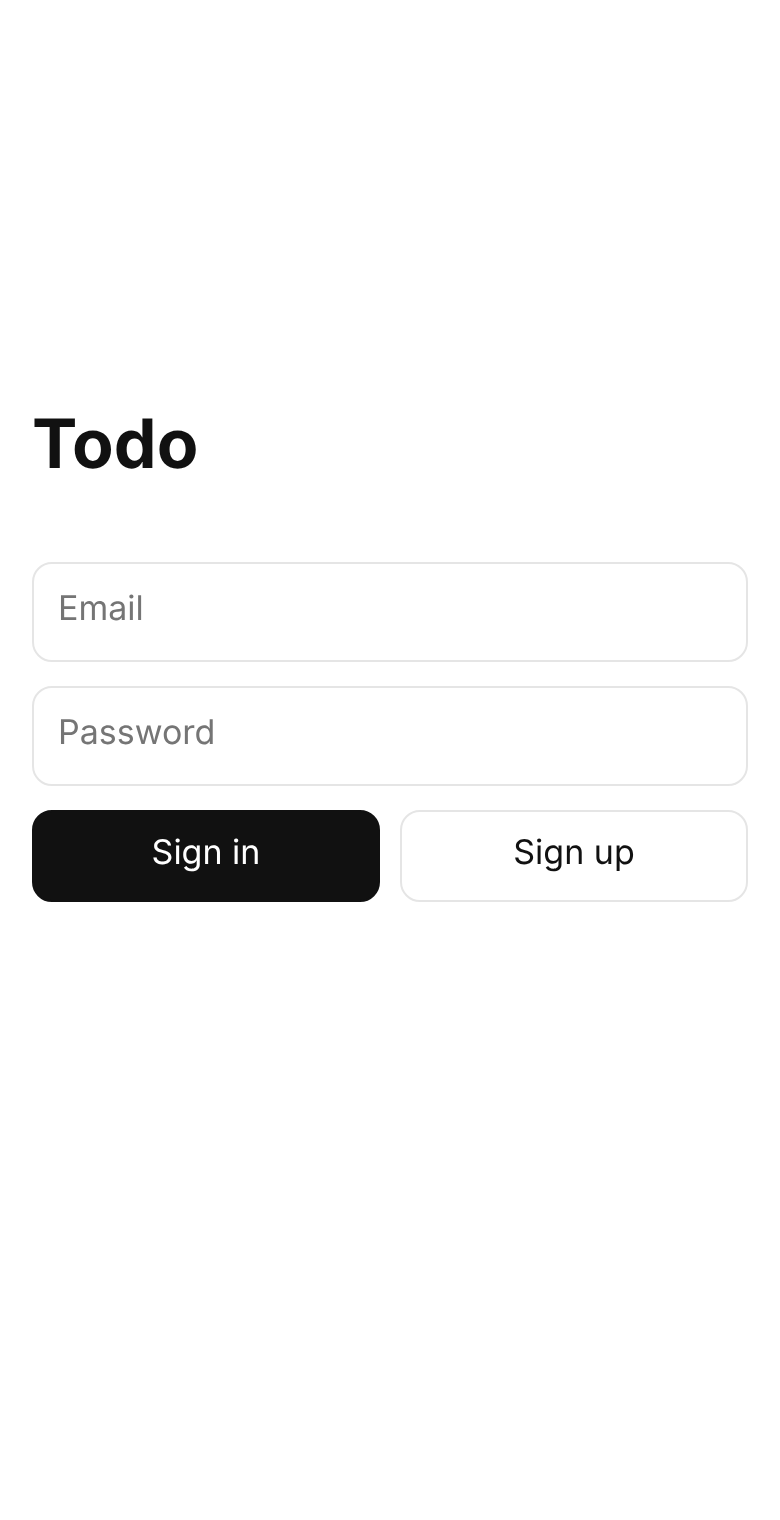
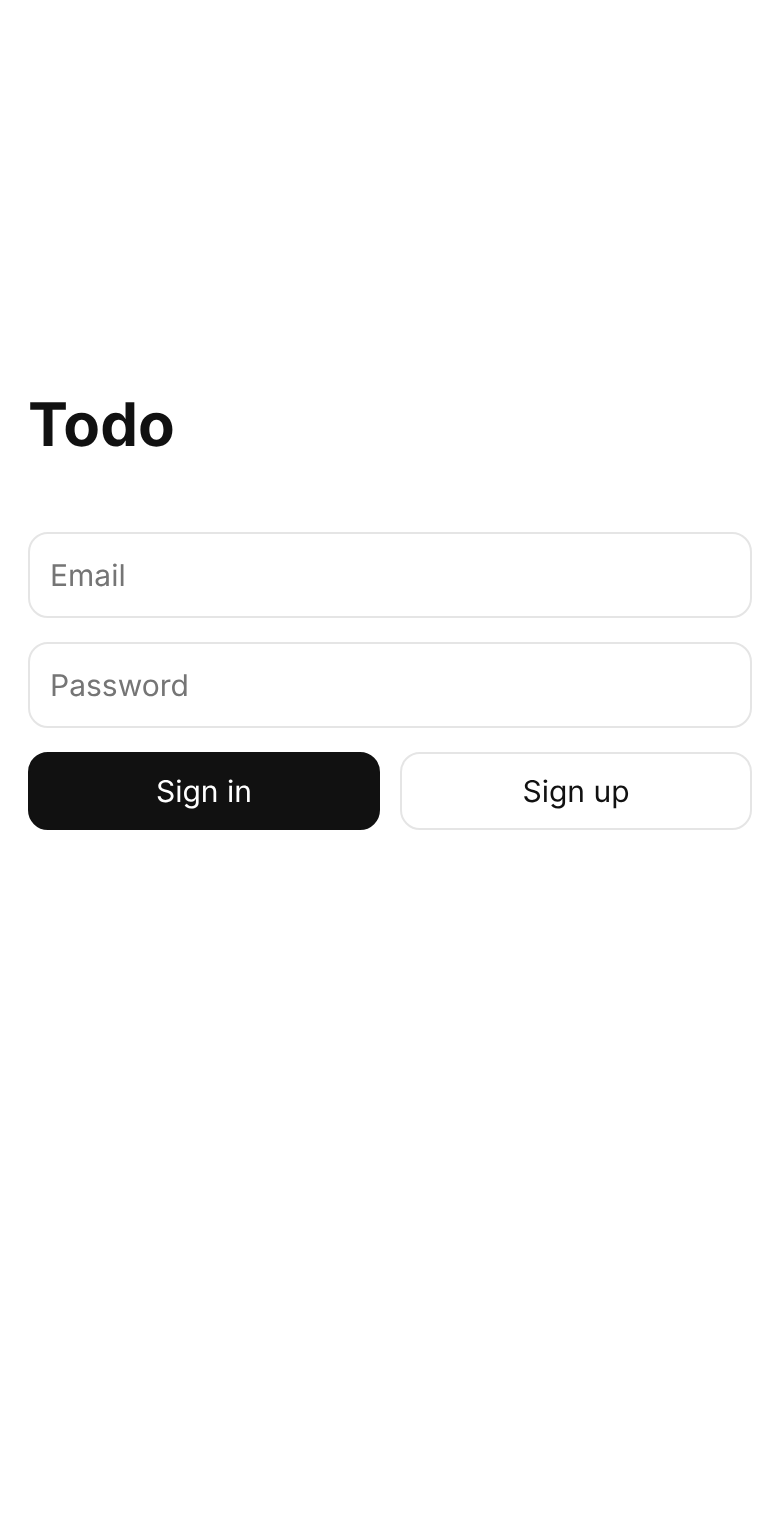
Smaller interface

diff --git a/style.css b/style.css
@@ -2,24 +2,24 @@
 @media (prefers-color-scheme: dark) { :root { --bg: #111; --fg: #f2f2f2; --line: #2a2a2a; } }
 
 * { box-sizing: border-box; }
-body { margin: 0; background: var(--bg); color: var(--fg); font: 17px/1.4 -apple-system, system-ui, sans-serif; }
+body { margin: 0; background: var(--bg); color: var(--fg); font: 15px/1.4 -apple-system, system-ui, sans-serif; }
 [hidden] { display: none !important; }
 
-#login, #app { max-width: 480px; margin: 0 auto; padding: 24px 16px; padding-top: max(24px, env(safe-area-inset-top)); }
+#login, #app { max-width: 480px; margin: 0 auto; padding: 20px 14px; padding-top: max(20px, env(safe-area-inset-top)); }
 #login { display: flex; flex-direction: column; gap: 12px; margin-top: 20vh; }
 #error { color: #d33; margin: 0; }
 
 input, textarea, button { font: inherit; color: inherit; }
-input, textarea { width: 100%; padding: 12px; background: none; border: 1px solid var(--line); border-radius: 10px; }
-button { padding: 10px 14px; background: none; border: 1px solid var(--line); border-radius: 10px; }
+input, textarea { width: 100%; padding: 10px; background: none; border: 1px solid var(--line); border-radius: 10px; }
+button { padding: 8px 12px; background: none; border: 1px solid var(--line); border-radius: 10px; }
 
-nav { display: flex; gap: 8px; margin-bottom: 16px; }
+nav { display: flex; gap: 6px; margin-bottom: 14px; }
 nav button.active { background: var(--fg); color: var(--bg); }
 #logout { margin-left: auto; display: flex; align-items: center; color: #d33; border-color: #d33; }
 #logout svg { display: block; }
 
-.tasks { list-style: none; margin: 16px 0 0; padding: 0; }
-.tasks li { display: flex; align-items: center; gap: 12px; padding: 12px 0; border-bottom: 1px solid var(--line); }
+.tasks { list-style: none; margin: 14px 0 0; padding: 0; }
+.tasks li { display: flex; align-items: center; gap: 10px; padding: 10px 0; border-bottom: 1px solid var(--line); }
 .tasks li.done span { color: var(--muted); text-decoration: line-through; }
 .tasks span { flex: 1; word-break: break-word; }
 .tasks input[type=checkbox] { width: 22px; height: 22px; }
@@ -35,10 +35,10 @@ nav button.active { background: var(--fg); color: var(--bg); }
 .tasks li.dragging::before { opacity: 1; }
 .tasks li.day::before { display: none; }
 
-#add { display: flex; gap: 8px; }
+#add { display: flex; gap: 6px; }
 #date { width: auto; }
-.tasks li.day { display: block; padding: 20px 0 6px; color: var(--muted); font-size: 14px; font-weight: 600; border-bottom: none; }
-nav button { white-space: nowrap; padding: 10px 12px; }
+.tasks li.day { display: block; padding: 20px 0 6px; color: var(--muted); font-size: 12.5px; font-weight: 600; border-bottom: none; }
+nav button { white-space: nowrap; padding: 8px 10px; }
 .tasks svg { display: block; }
 
 .tasks .handle {
@@ -76,7 +76,7 @@ nav button.bounce { animation: bounce 0.4s ease; }
 body { touch-action: pan-y; }
 .tasks input[type=checkbox] {
   appearance: none; -webkit-appearance: none;
-  flex: none; width: 20px; height: 20px; margin: 0; padding: 0;
+  flex: none; width: 18px; height: 18px; margin: 0; padding: 0;
   border: 1.5px solid var(--muted); border-radius: 50%; background: none;
   transition: background 0.15s, border-color 0.15s, transform 0.15s;
 }
@@ -86,7 +86,7 @@ nav button { transition: transform 0.12s; }
 
 .tasks li:not(.day) { touch-action: pan-y; }
 .tasks li:not(.day) { padding: 0; }
-.tasks .front { display: flex; align-items: center; gap: 12px; flex: 1; min-width: 0; padding: 12px 0; }
+.tasks .front { display: flex; align-items: center; gap: 10px; flex: 1; min-width: 0; padding: 10px 0; }
 .tasks .bin { position: absolute; inset: 0; display: none; align-items: center; justify-content: flex-end; padding-right: 20px; background: #d33; color: #fff; }
 .tasks li.swiping { overflow: hidden; user-select: none; -webkit-user-select: none; }
 .tasks li.swiping .bin { display: flex; }
@@ -98,7 +98,7 @@ nav button { transition: transform 0.12s; }
 .tasks .bin svg { --k: var(--s, 0); transition: --k 0.18s cubic-bezier(0.34, 1.56, 0.64, 1); animation: jitter 0.12s ease-in-out infinite alternate; }
 .tasks li.armed .bin svg { --k: 1.3; }
 
-#confirm { width: min(320px, 86vw); padding: 20px; border: 1px solid var(--line); border-radius: 14px; background: var(--bg); color: var(--fg); }
+#confirm { width: min(290px, 86vw); padding: 20px; border: 1px solid var(--line); border-radius: 14px; background: var(--bg); color: var(--fg); }
 #confirm::backdrop { background: rgba(0, 0, 0, 0.45); }
 #confirm p { margin: 0 0 16px; text-align: center; }
 #confirm div { display: flex; gap: 10px; }

diff --git a/index.html b/index.html
@@ -2,7 +2,7 @@
 <html lang="en">
 <head>
   <meta charset="utf-8">
-  <meta name="viewport" content="width=device-width, initial-scale=1, viewport-fit=cover">
+  <meta name="viewport" content="width=device-width, initial-scale=1, maximum-scale=1, viewport-fit=cover">
   <meta name="theme-color" content="#111111">
   <meta name="apple-mobile-web-app-capable" content="yes">
   <title>Todo</title>
@@ -35,7 +35,7 @@
     <nav>
       <button id="tab-todos" class="active">Todos</button>
       <button id="tab-notes">Notes</button>
-      <button id="logout" title="Log out" aria-label="Log out"><svg width="24" height="24" viewBox="0 0 24 24" fill="none" stroke="currentColor" stroke-width="1.8" stroke-linecap="round" stroke-linejoin="round"><path d="M9 21H5a2 2 0 0 1-2-2V5a2 2 0 0 1 2-2h4"/><path d="M16 17l5-5-5-5"/><path d="M21 12H9"/></svg></button>
+      <button id="logout" title="Log out" aria-label="Log out"><svg width="20" height="20" viewBox="0 0 24 24" fill="none" stroke="currentColor" stroke-width="1.8" stroke-linecap="round" stroke-linejoin="round"><path d="M9 21H5a2 2 0 0 1-2-2V5a2 2 0 0 1 2-2h4"/><path d="M16 17l5-5-5-5"/><path d="M21 12H9"/></svg></button>
     </nav>
 
     <section id="todos">

diff --git a/app.js b/app.js
@@ -8,7 +8,7 @@ const $ = id => document.getElementById(id)
 const MONTHS = ['Jan', 'Feb', 'Mar', 'Apr', 'May', 'Jun', 'Jul', 'Aug', 'Sep', 'Oct', 'Nov', 'Dec']
 const TABS = ['todos', 'notes']
 const icon = (path, size = 16) => `<svg width="${size}" height="${size}" viewBox="0 0 16 16" fill="none" stroke="currentColor" stroke-width="1.6" stroke-linecap="round" stroke-linejoin="round">${path}</svg>`
-const BIN_ICON = icon('<path d="M2.5 4.5h11M6 4.5V3h4v1.5M4 4.5l.7 8.5h6.6l.7-8.5M6.7 7v4M9.3 7v4"/>', 24)
+const BIN_ICON = icon('<path d="M2.5 4.5h11M6 4.5V3h4v1.5M4 4.5l.7 8.5h6.6l.7-8.5M6.7 7v4M9.3 7v4"/>', 20)
 const DRAG_ICON = icon('<path d="M3.5 4h9M3.5 8h9M3.5 12h9"/>')
 
 let items = JSON.parse(localStorage.getItem('items') || '[]')

diff --git a/sw.js b/sw.js
@@ -1,4 +1,4 @@
-const CACHE = 'todo-v26'
+const CACHE = 'todo-v27'
 const FILES = ['./', 'index.html', 'style.css', 'app.js', 'manifest.json', 'icon.png']
 
 self.addEventListener('install', e => {
